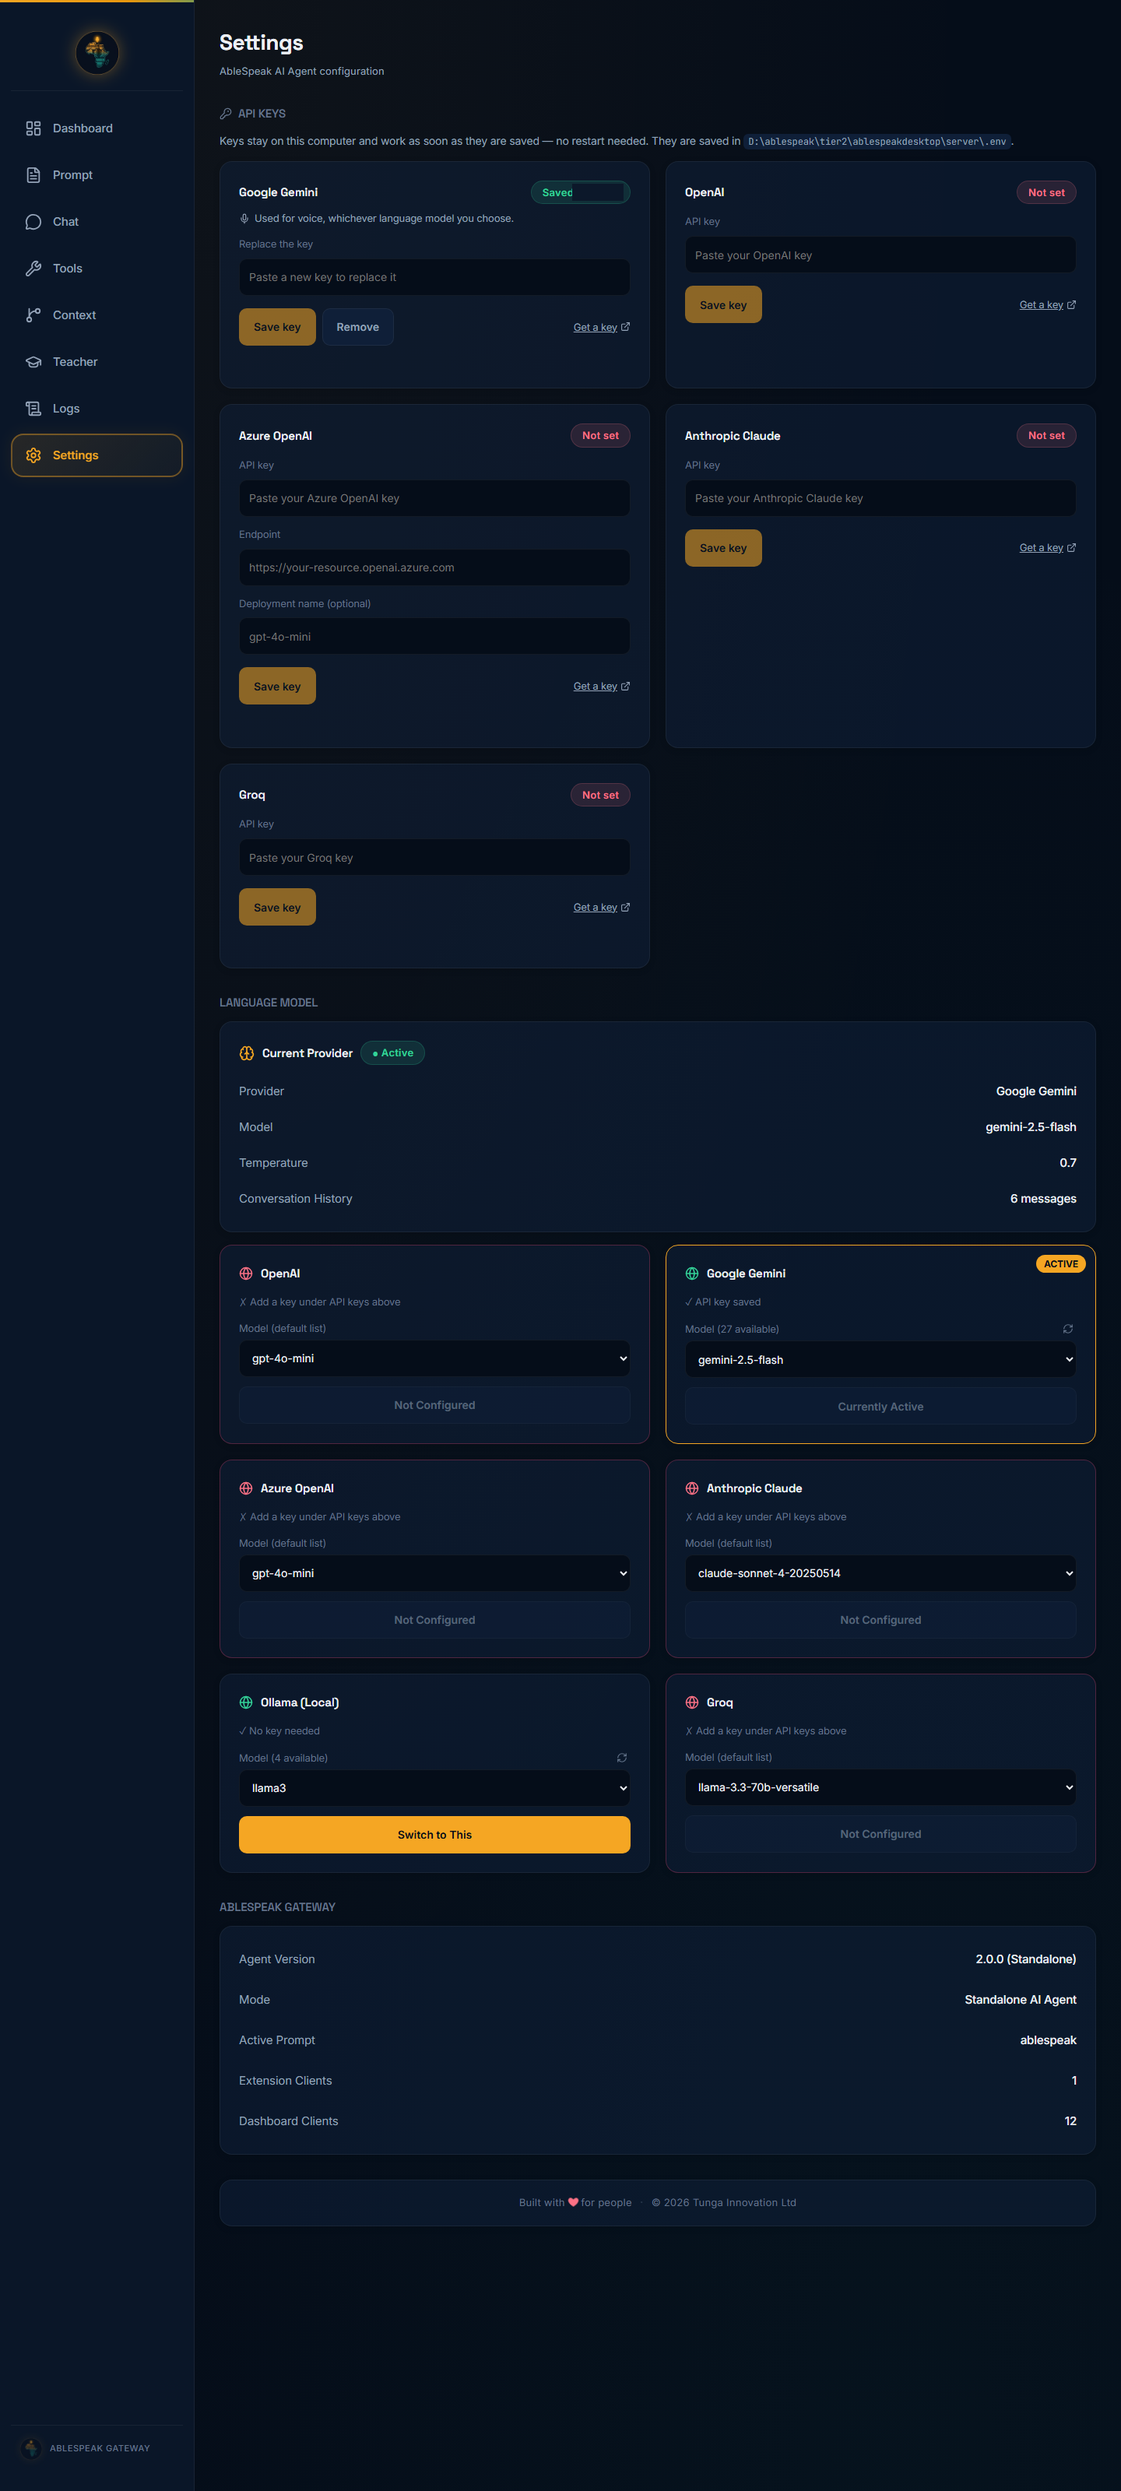
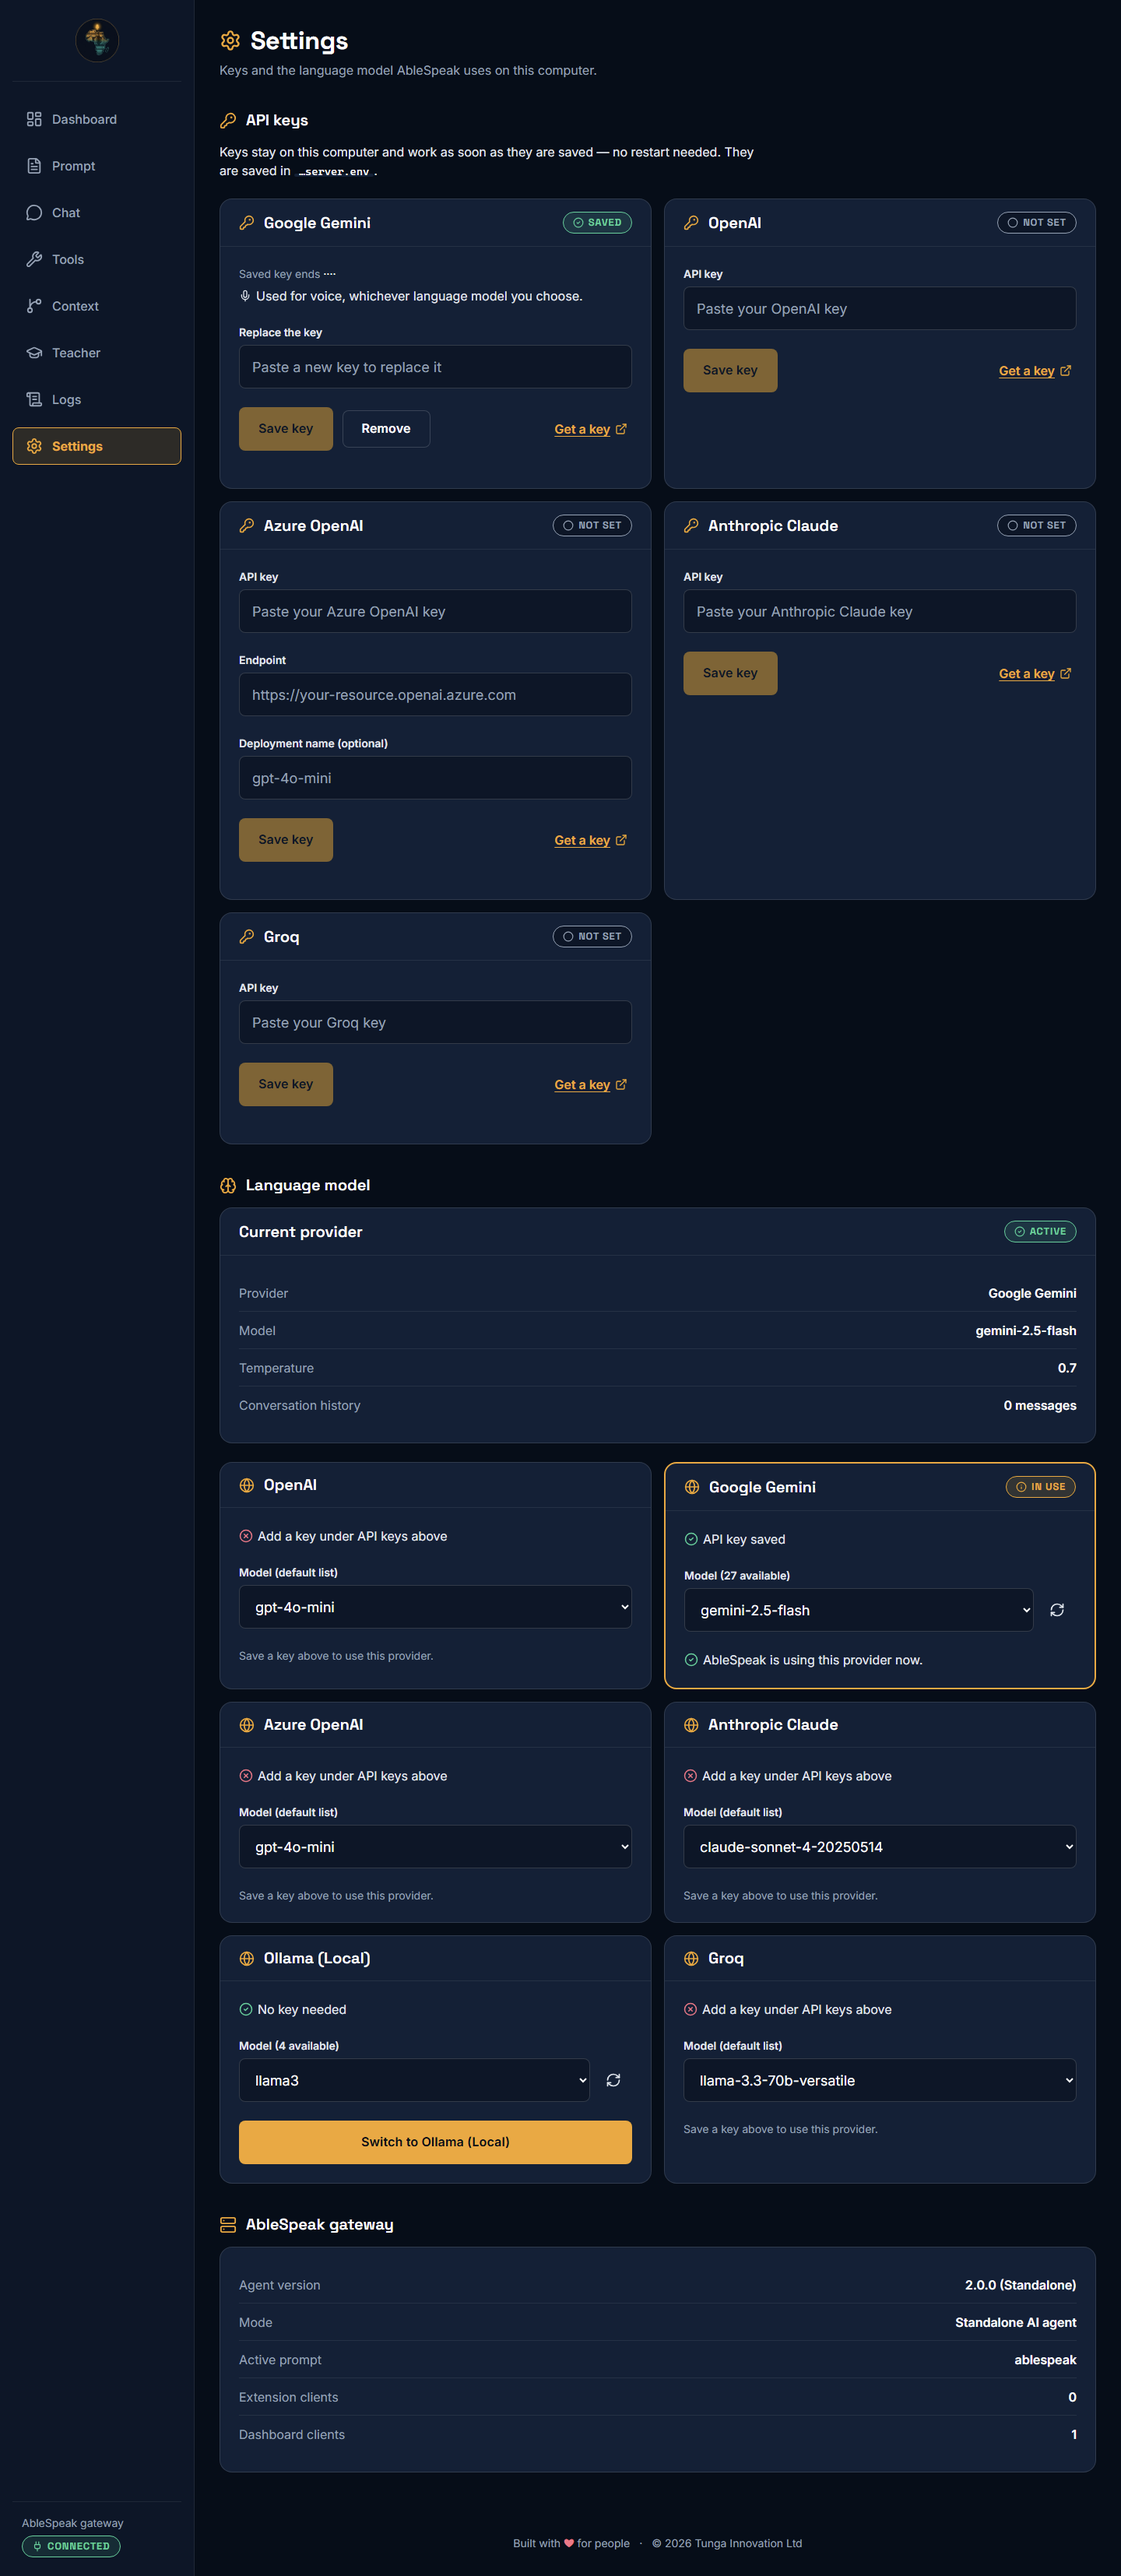
test(ui): contrast check in CI and refreshed design screenshots (phase 7)
- dashboard/scripts/check-contrast.mjs reads the :root colours and checks
  every text colour on every surface (AA 4.5:1; titles and body text
  7:1), plus text on the amber button and the teal chip. All 33 pairs
  pass. `npm run check:contrast`, and CI runs it after the build.
- docs/design/screenshots: new 1440x1000 captures of every page, the
  full Settings page and all six overlay states. Window titles, process
  names, the computer name, the saved key's ending and the .env path
  are hidden.

Also checked, outside the repo, in a hidden Electron window on every
page: each keyboard Tab stop shows a focus indicator, no control is
under 48x48, nothing keeps animating with reduced motion, and nothing
scrolls sideways at 200% zoom.

diff --git a/docs/design/DESIGN.md b/docs/design/DESIGN.md
@@ -280,6 +280,8 @@ Decisions made when applying this file to `dashboard/` and `server/overlay.html`
 - Tokens: `:root` in `dashboard/src/index.css`. The overlay repeats the few it needs at the top of its `<style>`.
 - Fonts: Inter and Space Grotesk are bundled with the app (`@fontsource-variable/*` in the dashboard, `server/fonts/` for the overlay), so both work with no internet connection. Code and log text use the system monospace font (Cascadia Mono, Consolas).
 - Shared controls: `dashboard/src/components/ui/`.
+- Contrast: `npm run check:contrast` in `dashboard/` checks every text colour against every surface; CI runs it after the build.
+- Screenshots: `docs/design/screenshots/` show the app after this pass (window titles, process names, computer name, key ending and `.env` path are hidden). The earlier "before" set is in git at commit `ecd15be`.
 
 ### Not applied
 - **Phone and tablet layouts.** The app runs in a desktop window. The layout is checked down to 800px wide.
